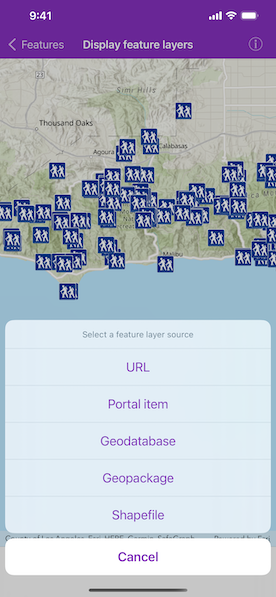
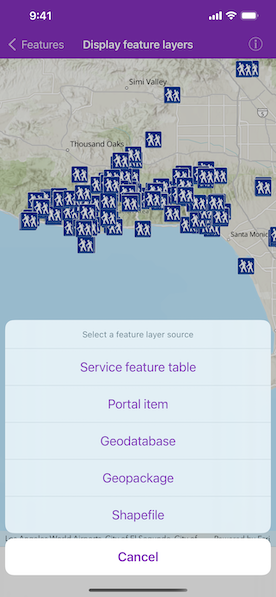
Update screenshot

diff --git a/arcgis-ios-sdk-samples/Features/Display feature layers/DisplayFeatureLayersViewController.swift b/arcgis-ios-sdk-samples/Features/Display feature layers/DisplayFeatureLayersViewController.swift
@@ -38,7 +38,7 @@ class DisplayFeatureLayersViewController: UIViewController {
     @IBAction func changeFeatureLayer() {
         let alertController = UIAlertController(title: "Select a feature layer source", message: nil, preferredStyle: .actionSheet)
         // Add an action to load a feature layer from a URL.
-        let featureServiceURLAction = UIAlertAction(title: "URL", style: .default) { (_) in
+        let featureServiceURLAction = UIAlertAction(title: "Service feature table", style: .default) { (_) in
             self.loadFeatureServiceURL()
         }
         alertController.addAction(featureServiceURLAction)
